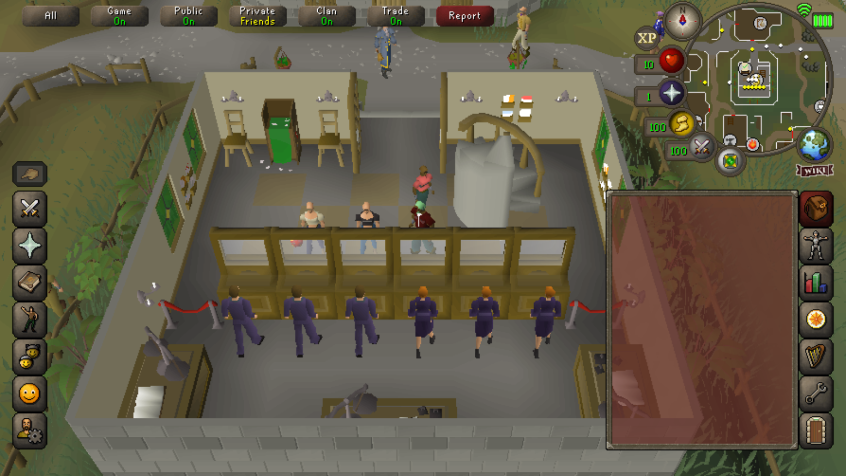
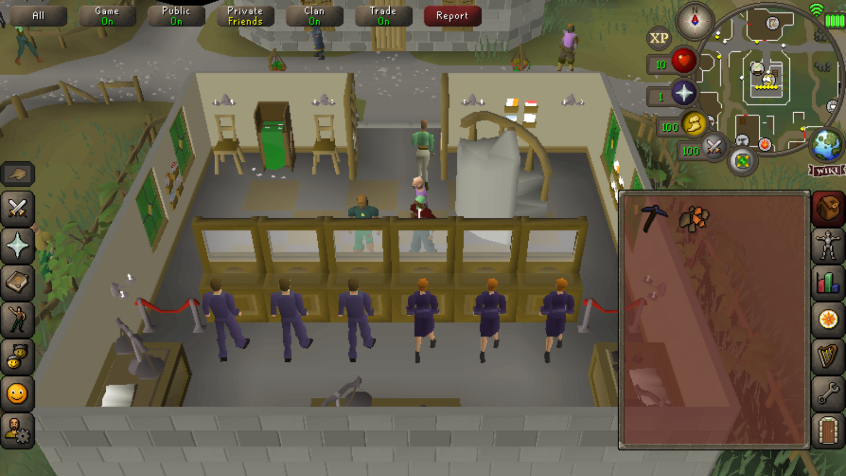
Reworked a lot of code to work with the idea of a Session. shit of broken rn but it's mid development. Heading in the right direction though

diff --git a/tools/session.py b/tools/session.py
@@ -10,9 +10,9 @@ from tools import config
 
 class Session:
     def __init__(self, row, col):
+        # Screen position details
         self.row = row
         self.col = col
-
         tl = Pos(
             0 + (self.col * config.GAME_WIDTH) + (self.col * config.PADDING_LEFT) + (self.col * config.PADDING_RIGHT) + config.PADDING_LEFT,
             0 + (self.row * config.GAME_HEIGHT) + (self.row * config.PADDING_TOP) + (self.row * config.PADDING_BOTTOM) + config.PADDING_TOP
@@ -27,7 +27,7 @@ class Session:
     
 
     def find_in_region(self, region, item_ref):
-        screen = grabber.grab_region("", region)
+        screen = grabber.grab(self.screen_bounds, region)
         _ = np.array(screen)
         screen = np.array(screen.convert("L"))
         template = cv2.imread(item_ref, 0)
@@ -37,7 +37,7 @@ class Session:
         threshold = 0.8
         loc = np.where(res >= threshold)
         if len(list(zip(*loc[::-1]))) < 1:
-            print("Couldn't find item on screen... fuck.")
+            if config.DEBUG: print("REGION_SEARCH_ERROR - [%s]: %s" % (region, item_ref))
             return None
         
         for pt in zip(*loc[::-1]):
@@ -45,14 +45,14 @@ class Session:
                 cv2.rectangle(_, pt, (pt[0] + w, pt[1] + h), (25, 0, 255), 2)
                 cv2.imwrite('debug/region_%s.png' % item_ref.split("/")[-1].split(".")[0], _)
             
-            return Pos(
+            return self.translate(Pos(
                 pt[0] + (w / 2),
                 pt[1] + (h / 2)
-            )
+            ))
 
 
-    def find_in_screen(self, item_ref):
-        screen = grabber.grab_fullscreen()
+    def find_in_client(self, item_ref):
+        screen = grabber.grab(self.screen_bounds)
         _ = np.array(screen)
         screen = np.array(screen.convert("L"))
         template = cv2.imread(item_ref, 0)
@@ -62,15 +62,19 @@ class Session:
         threshold = 0.8
         loc = np.where(res >= threshold)
         if len(list(zip(*loc[::-1]))) < 1:
-            print("Couldn't find item on screen... fuck.")
+            if config.DEBUG: print("CLIENT_SEARCH_ERROR: %s" % item_ref)
             return None
         
         for pt in zip(*loc[::-1]):
             if config.DEBUG:
                 cv2.rectangle(_, pt, (pt[0] + w, pt[1] + h), (25, 0, 255), 2)
-                cv2.imwrite('debug/screen_%s.png' % item_ref.split("/")[-1].split(".")[0], _)
+                cv2.imwrite('debug/client%s%s/screen_%s.png' % (self.row, self.col, item_ref.split("/")[-1].split(".")[0]), _)
             
-            return Pos(
+            return self.translate(Pos(
                 pt[0] + (w / 2),
                 pt[1] + (h / 2)
-            )
+            ))
+        
+
+    def translate(self, pos):
+        return pos.add(self.screen_bounds.tl)

diff --git a/account.py b/account.py
@@ -5,46 +5,55 @@ import time
 
 # Custom library
 from tools.screen_pos import Pos, Box
-import bot
-from tools import config
+from tools.lib import debug
 from tools import screen_search
+import bot
+
+# Utilities
+import ui
 
 
 # Constants
-LOGIN_BUTTON = Box(Pos(739, 509), Pos(1169, 619))
+LOGIN_BUTTON = Box(Pos(325, 223), Pos(516, 274))
 LOBBY_BUTTON = Box(Pos(721, 625), Pos(1187, 795))
 LOGOUT_BUTTON = Box(Pos(1452, 911), Pos(1731, 952))
 
-def is_logged_out():
-    check = screen_search.find_in_screen("bot_ref_imgs/account/logout_check.png")
+# Images
+LOGOUT_CHECK = "bot_ref_imgs/quad_1080/account/logout_check.png"
+TAP_TO_PLAY = "bot_ref_imgs/account/tap_to_play.png"
+CONNECTING_CHECK = "bot_ref_imgs/account/connecting_check.png"
+
+
+def is_logged_out(session):
+    check = session.find_in_client(LOGOUT_CHECK)
     return check is not None
 
 
-def is_in_lobby():
-    check = screen_search.find_in_screen("bot_ref_imgs/account/tap_to_play.png")
+def is_in_lobby(session):
+    check = session.find_in_client(TAP_TO_PLAY)
     return check is not None
 
 
-def is_connecting():
-    check = screen_search.find_in_screen("bot_ref_imgs/account/connecting_check.png")
+def is_connecting(session):
+    check = session.find_in_client(CONNECTING_CHECK)
     return check is None
 
 
-def login():
-    if not is_logged_out():
-        print("Already logged in you plum")
+def login(session):
+    if not is_logged_out(session):
+        debug("Account: Already logged in")
         return
 
-    print("Logging in...")
+    debug("Logging in...")
 
     # Click login
     bot.click(LOGIN_BUTTON.random_point())
 
     # Enter game
-    while not is_in_lobby():
+    while not is_in_lobby(session):
         time.sleep(2)
         # If connection failed
-        if not is_connecting():
+        if not is_connecting(session):
             # Log in again
             bot.click(LOGIN_BUTTON.random_point())
     
@@ -52,7 +61,7 @@ def login():
     bot.click(LOBBY_BUTTON.random_point())
 
 
-def logout():
+def logout(session):
     if is_logged_out():
         print("Already logged out you plum")
         return

diff --git a/tools/osrs_screen_grab.py b/tools/osrs_screen_grab.py
@@ -3,44 +3,26 @@ from . import config
 from .screen_pos import Pos, Box
 
 
-INVENTORY = Box(Pos(612, 195), Pos(791, 444))
-
 # Constants
-MAP = {
-    "TL": Pos(1527, 10),
-    "BR": Pos(1879, 358)
-}
+INVENTORY = Box(Pos(624, 196), Pos(804, 444))
+MAP = Box(Pos(696, 8), Pos(841, 153))
+BAR_RIGHT_TOP = Box(Pos(814, 194), Pos(844, 225))
+BAR_LEFT_TOP = Box(Pos(2, 194), Pos(33, 225))
+COMPASS = Box(Pos(682, 11), Pos(707, 29))
+DRAG_BOUNDS = Box(Pos(66, 71), Pos(609, 392))
 
-INV = {
-    "TL": Pos(1385, 442),
-    "BR": Pos(1796, 1004)
-}
-
-INV_1 = {
-    "TL": Pos(1414, 463),
-    "BR": Pos(1496, 529)
-}
-
-INV_ICON = {
-    "TL": Pos(1810, 430),
-    "BR": Pos(1891, 513)
-}
+# INVENTORY
+# items are 32 wide
+# items are 28
+# width between = 8
+# height between = 6
 
 
 
 def grab(bounding_box, region=None, file_name="default_grab", save=False):
-    # if region is not None:
-    #     bounding_box.subdivision(region)
-    if region is None:
-        img = ImageGrab.grab(bbox=(bounding_box.tl.x, bounding_box.tl.y, bounding_box.br.x, bounding_box.br.y)).convert('RGB')
-    else:
-        img = ImageGrab.grab(bbox=(
-            bounding_box.tl.x + region.tl.x,
-            bounding_box.tl.y + region.tl.y,
-            bounding_box.tl.x + region.br.x,
-            bounding_box.tl.y + region.br.y
-        )).convert('RGB')
-    # img = ImageGrab.grab(bbox=(bounding_box.tl.x, bounding_box.tl.y, bounding_box.br.x, bounding_box.br.y)).convert('RGB')
+    if region is not None:
+        bounding_box.subdivision(region)
+    img = ImageGrab.grab(bbox=(bounding_box.tl.x, bounding_box.tl.y, bounding_box.br.x, bounding_box.br.y)).convert('RGB')
     if save:
         file_path = '%s.png' % file_name
         img.save(file_path)

diff --git a/tools/screen_pos.py b/tools/screen_pos.py
@@ -1,4 +1,5 @@
 import random
+import copy
 
 class Pos:
     def __init__(self, x, y):
@@ -36,6 +37,10 @@ class Pos:
         return self
 
 
+    def copy(self):
+        return copy.deepcopy(self)
+
+
     def __str__(self):
         return "Point(x: %s, y: %s)" % (self.x, self.y)
 
@@ -56,9 +61,8 @@ class Box:
 
 
     def subdivision(self, b1):
-        tmp = self.tl
+        self.br = copy.deepcopy(self.tl).add(b1.br)
         self.tl.add(b1.tl)
-        self.br = tmp.add(b1.br)
         return self
 
     def center(self):
@@ -66,6 +70,16 @@ class Box:
             self.tl.x + (self.width / 2),
             self.tl.y + (self.height / 2)
         )
+
+
+    def shift_y(self, amount):
+        self.tl.y += amount
+        self.br.y += amount
+        return self
+
+
+    def copy(self):
+        return copy.deepcopy(self)
 
 
     def random_point(self):

diff --git a/tools/config.py b/tools/config.py
@@ -1,14 +1,24 @@
 SCREEN_WIDTH = 1920
 SCREEN_HEIGHT = 1080
 
+# Bluestacks client
 PADDING_TOP = 42
 PADDING_LEFT = 3
 PADDING_RIGHT = 3
 PADDING_BOTTOM = 2
 
+# Game client
 GAME_WIDTH = 846
 GAME_HEIGHT = 476
 
+# Darkflow rescaling
 SCALE_WIDTH = 480
 
+# Bot references
+BOT_1 = (0, 0)
+BOT_2 = (0, 1)
+BOT_3 = (1, 0)
+BOT_4 = (1, 1)
+
+# Debug
 DEBUG = False

diff --git a/tools/lib.py b/tools/lib.py
@@ -1,0 +1,14 @@
+import random
+import time
+
+from tools import config
+
+def debug(debug_message):
+    if config.DEBUG:
+        print("DEBUG >> %s" % debug_message)
+
+
+def wait(min, max):
+    length = random.uniform(min, max)
+    debug(">>>> Sleeping for: %s" % round(random.uniform(min, max), 2))
+    time.sleep(length)

diff --git a/playground.py b/playground.py
@@ -1,0 +1,14 @@
+from tools.session import Session
+from tools import config
+config.DEBUG = True
+import pyautogui as bot
+
+from bots import mining
+
+import account
+import ui
+
+s = Session(0, 0)
+mining_bot = mining.Mining(s)
+
+ui.spin_around(s)

diff --git a/bots/mining.py b/bots/mining.py
@@ -1,0 +1,9 @@
+# Base session
+from tools.session import Session
+
+# Utilities
+import account
+
+class Mining:
+    def __init__(self, session):
+        self.session = session
